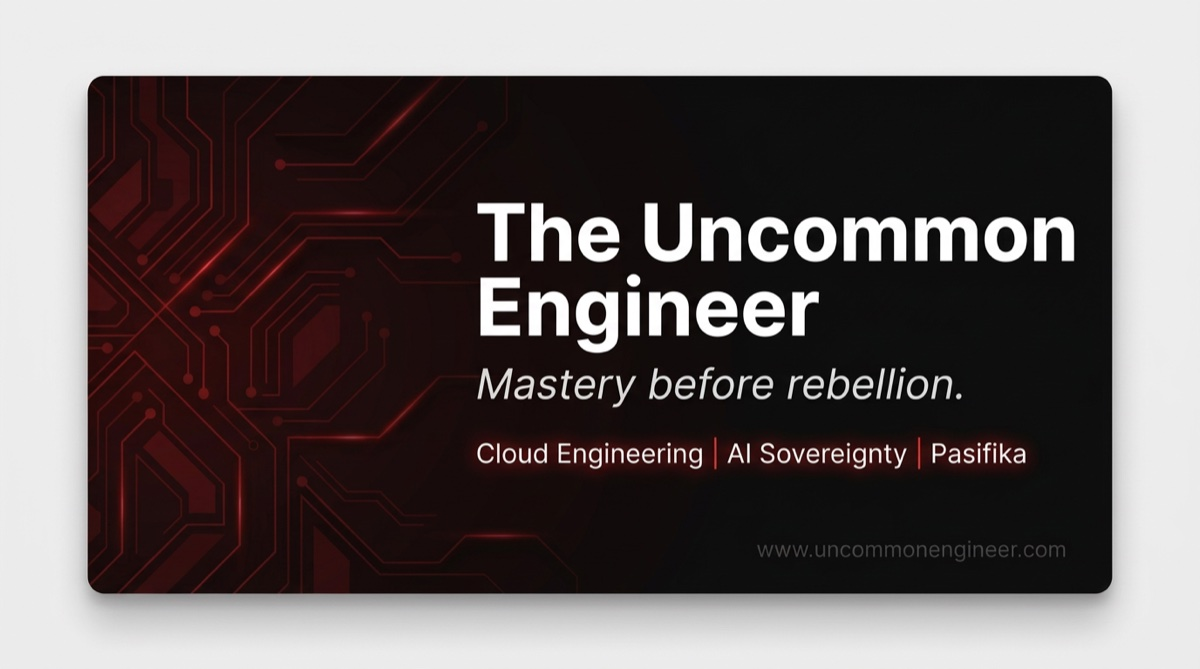
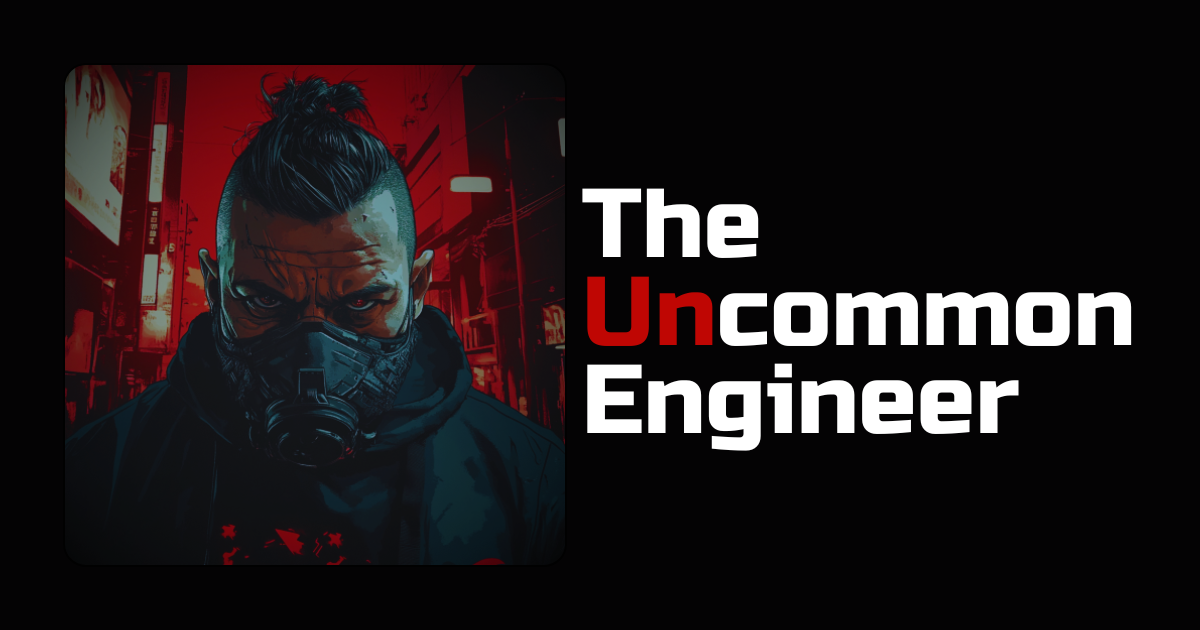
chore: update social card preview image
Refresh Open Graph / Twitter card asset for site-wide link sharing.

diff --git a/website/changelog/2026/july.md b/website/changelog/2026/july.md
@@ -6,6 +6,11 @@ description: Changes and additions for July 2026
 
 # July 2026
 
+## 📅 2026-07-20
+
+### 🎨 Design Changes
+- **Social card refresh**: Updated Open Graph / Twitter preview image (`social-card.jpg`) used for site-wide link sharing
+
 ## 📅 2026-07-15
 
 ### 📚 Documentation Updates